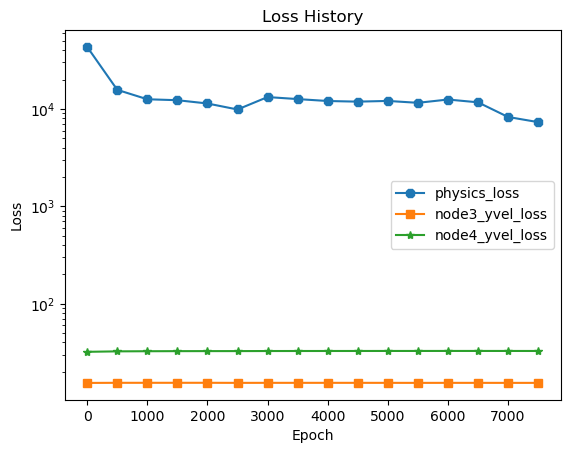
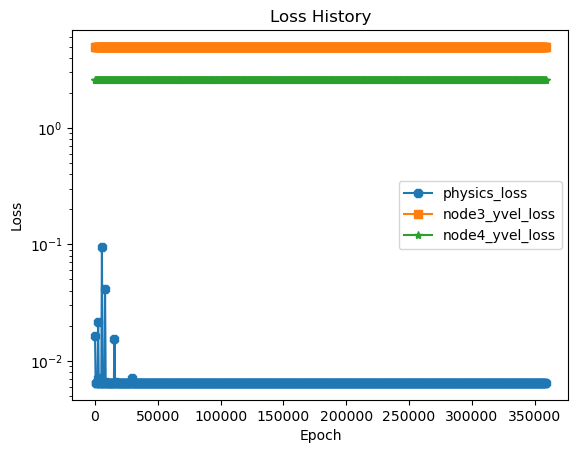
go back to msffn

diff --git a/model.py b/model.py
@@ -32,24 +32,24 @@ class PINN(nn.Module):
 
         # self.a = torch.rand(1).to(device).requires_grad_(True)
 
-        # self.b = []
-        # for sigma in self.sigmas:
-        #     self.b.append(
-        #         torch.normal(
-        #             mean=0, std=sigma, size=(layer_sizes[0], layer_sizes[1] // 2)
-        #         ).to(device)
-        #     )
+        self.b = []
+        for sigma in self.sigmas:
+            self.b.append(
+                torch.normal(
+                    mean=0, std=sigma, size=(layer_sizes[0], layer_sizes[1] // 2)
+                ).to(device)
+            )
 
         self.linears = []
-        for i in range(1, len(layer_sizes) - 1):
+        for i in range(2, len(layer_sizes) - 1):
             self.linears.append(
                 nn.Linear(layer_sizes[i - 1], layer_sizes[i]).to(device)
             )
 
-        # self._dense = nn.Linear(layer_sizes[-2] * len(sigmas), layer_sizes[-1]).to(
-        #     device
-        # )
-        self._dense = nn.Linear(layer_sizes[-2], layer_sizes[-1]).to(device)
+        self._dense = nn.Linear(layer_sizes[-2] * len(sigmas), layer_sizes[-1]).to(
+            device
+        )
+        # self._dense = nn.Linear(layer_sizes[-2], layer_sizes[-1]).to(device)
 
     # def E(self):
     #     return self.a**2
@@ -58,26 +58,26 @@ class PINN(nn.Module):
         x = inputs
 
         # fourier feature layer
-        # yb = [
-        #     self._fourier_feature_forward(x, self.b[i]) for i in range(len(self.sigmas))
-        # ]
-        # y = [elem[0] for elem in yb]
-        # self.fourier_feature_weights = [elem[1] for elem in yb]
+        yb = [
+            self._fourier_feature_forward(x, self.b[i]) for i in range(len(self.sigmas))
+        ]
+        y = [elem[0] for elem in yb]
+        self.fourier_feature_weights = [elem[1] for elem in yb]
 
         # fully-connected layers
-        # y = [self._fully_connected_forward(_y) for _y in y]
-        y = self._fully_connected_forward(x)
+        y = [self._fully_connected_forward(_y) for _y in y]
+        # y = self._fully_connected_forward(x)
 
         # concatenate all the fourier features
-        # y = torch.cat(y, axis=1)
+        y = torch.cat(y, axis=1)
         y = self._dense(y)
         return y
 
-    # def _fourier_feature_forward(self, y, b):
-    #     y = torch.cat(
-    #         [torch.cos(torch.matmul(y, b)), torch.sin(torch.matmul(y, b))], dim=1
-    #     )
-    #     return y, b
+    def _fourier_feature_forward(self, y, b):
+        y = torch.cat(
+            [torch.cos(torch.matmul(y, b)), torch.sin(torch.matmul(y, b))], dim=1
+        )
+        return y, b
 
     def _fully_connected_forward(self, y):
         for linear in self.linears:
